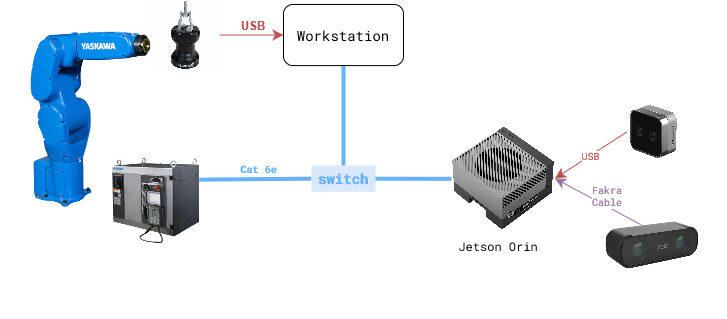
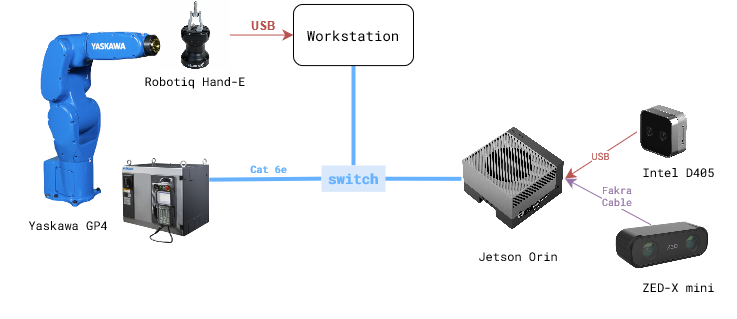
added vision installation skeleton

diff --git a/doc/Vision/Installation.md b/doc/Vision/Installation.md
@@ -5,21 +5,60 @@
 ```{contents}
 ```
 
-## Pre-requisites
+## Hardware 
 
-### Hardware 
+Figure below shows the experiment setup during the project period. The list of hardware components can be found here in the [BOM sheet](https://docs.google.com/spreadsheets/d/1p2As_AB7A4FWpQJU8ZtA_rXWKELAA8dq/edit?usp=sharing&ouid=112281614924032477147&rtpof=true&sd=true)
 
-*insert BOM link*
-
-*insert diagram of how things need to be connected*
 ![vision-system](../files/vision/vision-system.png)
 
-*insert few key notes*
+> Note: Bolt pattern of GP4 end effector and Robotiq HandE is different. So, a custom adapter plate will be needed to mount the Robotiq HandE on GP4.
 
-### Software
+## Software
 
-*repositories and installation*
+There are two levels of software installation required for the vision system.
+
+**1. Device Interfaces**\
+This includes the installation of the software required to interface with the hardware components like robots, cameras, grippers, etc.
+
+Relevant repositories:\
+<a href="https://github.com/cmu-mfi/motoman_ros1" class="inline-button"><i class="fab fa-github"></i>motoman_ros1</a>
+<a href="https://github.com/stereolabs/zed-ros-wrapper" class="inline-button"><i class="fab fa-github"></i>zed-ros-wrapper</a>
+<a href="https://github.com/cmu-mfi/realsense-ros1-docker" class="inline-button"><i class="fab fa-github"></i>realsense-ros1-docker</a>
+<a href="https://github.com/cmu-mfi/rosbridge_suite" class="inline-button"><i class="fab fa-github"></i>rosbridge_suite</a>
+
+**2. Vision System**\
+This includes the installation of the software required to run the vision system which involves teach, learn and execute tasks described in the [overview](Vision.md) section.
+
+Relevant repository:\
+<a href="https://github.com/cmu-mfi/rtc_vision_toolbox" class="inline-button"><i class="fab fa-github"></i>rtc_vision_toolbox</a>
+
 
 ## Installation Steps
 
-*calibration and all*
+1. **Step 1: Device Interfaces**:
+    - Follow the installation instructions in the respective repositories.
+    - Make sure the devices are connected and working properly.
+
+2. **Step 2: Check Camera positions**:
+    - ...
+
+3. **Step 3: Device Setup: Camera-Robot Calibration**:
+    - ...
+
+4. **Step 4: Create Config Files**:
+    - ...
+
+5. **Step 5: TEACH - Collect training data**:
+    - ...
+
+6. **Step 6: LEARN - Train the model**:
+    - ...
+
+7. **Step 7: EXECUTE - Run the vision system**:
+    - ...
+
+8. **Step 8: Validate and Retrain**:
+    - ...
+    - ...
+    - Repeat 4-5-6 steps as needed.
+    

diff --git a/doc/Vision/Vision.md b/doc/Vision/Vision.md
@@ -5,8 +5,10 @@ can later be fine-tuned on data for a particular task of interest.
 
 The tasks involve placing one object (which we call the “action” object) at a semantically meaningful location relative to another object (which we call the “anchor” object)
 
+![action-anchor](../files/vision/action_anchor.png)
 
 ```{contents}
+:depth: 2
 ```
 ---
 
@@ -17,7 +19,7 @@ The data collection procedure involves manually jogging the robot to do an assem
 It is assumed that the system setup (like, camera calibration) is done before data collection procedure. 
 
 ![data-collection](../files/vision/vision-data-collection.png)
-*Data collection procedure for an insertion placement task*
+*<center>Data collection procedure for an insertion placement task</center>*
 
 <iframe width="704" height="396" src="https://www.youtube.com/embed/yKXflZ4BOYs" title="Vision Based Insertion - Training Procedure" frameborder="0" allow="accelerometer; autoplay; clipboard-write; encrypted-media; gyroscope; picture-in-picture; web-share" allowfullscreen></iframe> 
 
@@ -29,9 +31,9 @@ A trained model is used for estimating corss-pose between action and achor point
 
 ![taxpose](../files/vision/vision-taxpose-overview.gif)
 
-Data input for training: 
+### Data input for training: 
 
-> *Action pointclouds at the target position inserted in the Anchor pointcloud*
+Action pointclouds at the target position inserted in the Anchor pointclouds.
 
 | Waterproof Connector | D-Sub Connector |
 |----------------------| ----------------|

diff --git a/doc/index.md b/doc/index.md
@@ -4,7 +4,7 @@
 
 Robotics Training Center (RTC) is a project funded by [NIST](https://www.nist.gov/) in 2023-2024. The project was proposed by [Carnegie Mellon University](https://www.cmu.edu/) in collaboration with [ARM Institute](https://arminstitute.org/)
 
-The center includes a set of robots repeatedly performing manufacturing and assembly manipulation tasks with an adjustable level of variation. The underlying software stack is modular such that individual software components can be easily switched with a data-driven model. To achieve the vision, the project consisted of five core thrusts:
+The center includes a set of robots repeatedly performing manufacturing and assembly manipulation tasks with an adjustable level of variation. To achieve the vision, the project consisted of five core thrusts:
 
 1. **Self-supervised vision-based object manipulation**
 2. **Vibrotactile sensing for monitoring manufacturing processes**

diff --git a/README.md b/README.md
@@ -1,4 +1,4 @@
-# README for the Robotics Training Center (RTC) Git Repository
+# Robotics Training Center (RTC) Webpage Documentation
 
 This documentation is written in [Markdown][url01].
 
@@ -32,7 +32,7 @@ pip install -U sphinx sphinx_rtd_theme myst_parser
 
 **Build doc**
 ```
-cd ./rtc
+cd rtc
 
 # Linux/macOS Terminal
 source .venv/bin/activate
@@ -40,10 +40,11 @@ source .venv/bin/activate
 # Windows CMD
 call .venv\Scripts\activate.bat
 
-cd ./doc
+cd doc
 make html
 ```
-The HTML pages are in _build/html.  
+
+The HTML pages are in `doc/_build/html`.  
 
 ---
 

diff --git a/doc/Highlights.md b/doc/Highlights.md
@@ -1,3 +1,5 @@
 # Video Highlights
 
 <iframe width="704" height="396" src="https://www.youtube.com/embed/lsGcno54SCo" title="Vision Based Insertion" frameborder="0" allow="accelerometer; autoplay; clipboard-write; encrypted-media; gyroscope; picture-in-picture; web-share" allowfullscreen></iframe> 
+
+<!-- TODO: Insert screen recording of Foxglove for Audio based detection -->
